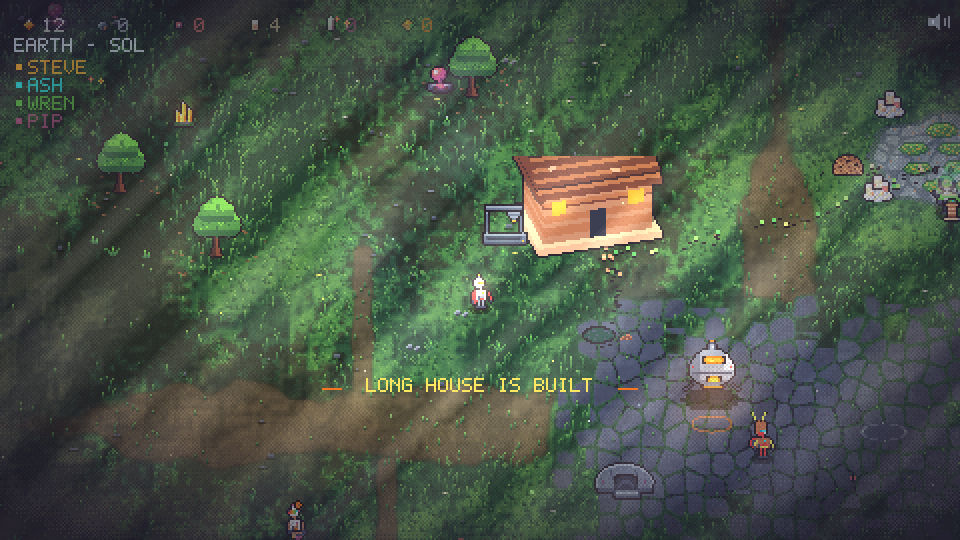
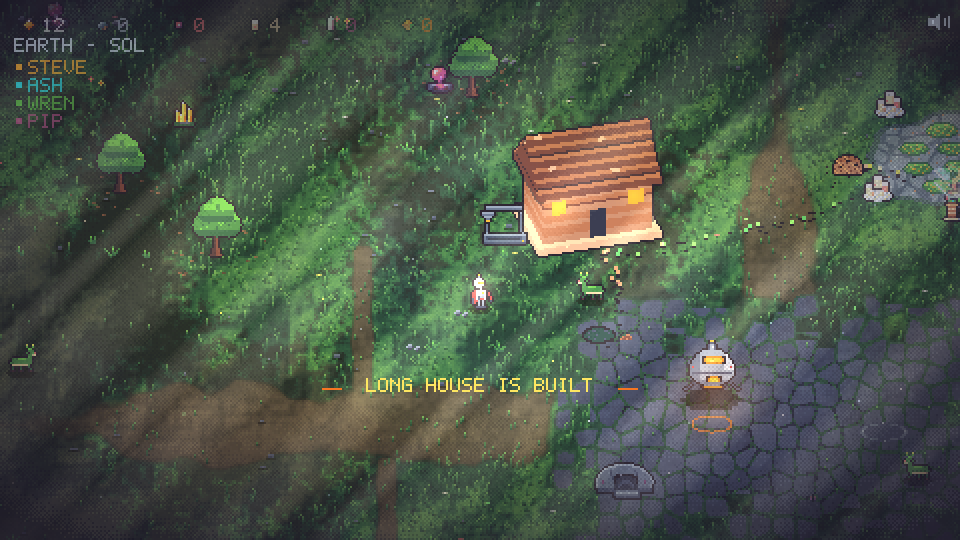
Copies take up what a hello interrupted; playtest-cemprint waits for a copy tending at the bed
A greeting set a copy idle mid-walk with its chore still pending, so the chore
(a swing, or now a stroke of tending) was later done wherever it walked next.
After the hello it now goes back to walking, carrying, its chore or its
hammering. The playtest also clears pending chores before it watches the
tending, and checks a copy in its chore at the bed's rim.

Claude-Session: https://claude.ai/code/session_01EdNNBBbs6drGGsz8FA1VDd

diff --git a/src/entities/Npc.ts b/src/entities/Npc.ts
@@ -45,6 +45,8 @@ export class Npc {
   private mineAt: Pt | null = null;
   private job: BuildJob | null = null;
   private chore: Chore | null = null;
+  /** what a hello interrupted, taken up again after it */
+  private afterGreet: State = 'idle';
   /** heading for the hatch to go down and do this */
   private descent: { task: BelowTask; room?: WarrenRoom } | null = null;
   private nextBuild: number;
@@ -289,6 +291,8 @@ export class Npc {
     const greetAt = soc === 'solitary' ? 18 : soc === 'clingy' ? 44 : 30;
     if (dp < greetAt && time > this.nextGreet && p.alive && this.state !== 'mine' && this.state !== 'talk') {
       this.nextGreet = time + (soc === 'solitary' ? 34_000 : soc === 'clingy' ? 11_000 : 20_000);
+      // a hello never drops what it was on its way to do (a chore left pending would be done wherever it walked next)
+      if (this.state !== 'greet') this.afterGreet = ['walk', 'carry', 'chore', 'hammer'].includes(this.state) ? this.state : 'idle';
       this.state = 'greet';
       this.until = time + 900;
       this.sprite.setFlipX(p.x < this.x);
@@ -298,7 +302,7 @@ export class Npc {
 
     switch (this.state) {
       case 'greet':
-        if (time > this.until) this.state = 'idle';
+        if (time > this.until) { this.state = this.afterGreet; this.afterGreet = 'idle'; }
         break;
       case 'idle':
         if (time > this.until) this.think(time);
